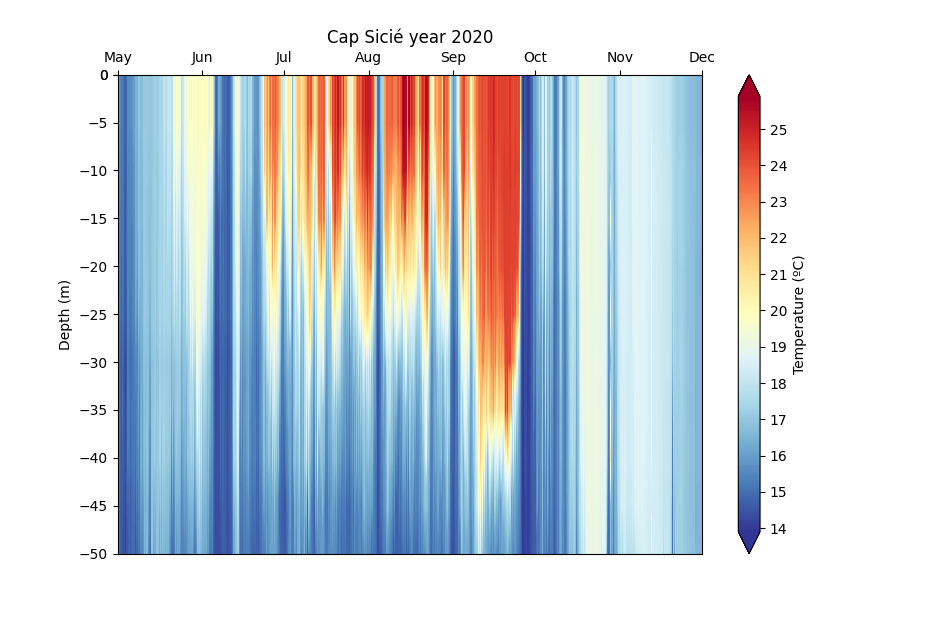
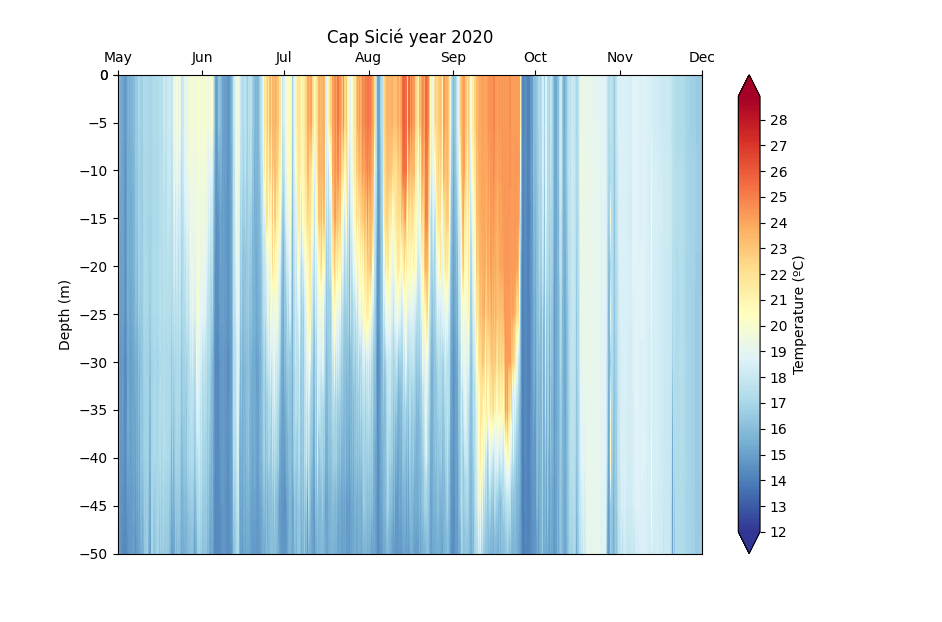
Added a way for or stratification to plot multiple plots if there is a gap in data in between the series. No matter how many gaps.

diff --git a/tmednetGUI/user_interaction.py b/tmednetGUI/user_interaction.py
@@ -715,27 +715,35 @@ class tmednet(tk.Frame):
             self.plot.invert_yaxis()
             # levels = np.arange(np.floor(np.nanmin(df.values)), np.ceil(np.nanmax(df.values)), 1)
             levels = np.arange(np.floor(hismintemp), np.ceil(hismaxtemp), 1)
+            levels2 = np.arange(np.floor(hismintemp), np.ceil(hismaxtemp), 0.1)
 
             # Draws a contourn line.
             # ct = self.plot.contour(df.index.to_pydatetime(), -depths, df.values.T, colors='black', linewidths=0.5)
             df_datetime = pd.to_datetime(df.index)
             old = df_datetime[0]
+            index_cut = None
+            df_cuts = []
             for i in df_datetime[1:]:
                 new = i
                 diff = new - old
                 old = new
                 if diff.days > 0:
+                    index_old = 0
                     index_cut = df_datetime.get_loc(i)
-                    df_first = df[:index_cut]
-                    df_second = df[index_cut:]
+                    df_cuts.append(df[index_old:index_cut])
+                    index_old = index_cut
+                    # df_second = df[index_cut:]
+
             if index_cut:
-                cf1 = self.plot.contourf(df_datetime[:index_cut], -depths, df_first.values.T, 256, extend='both',
-                                        cmap='RdYlBu_r')
-                cf2 = self.plot.contourf(df_datetime[index_cut:], -depths, df_second.values.T, 256, extend='both',
-                                        cmap='RdYlBu_r')
-                cb = plt.colorbar(cf1, ax=self.plot, label='Temperature (ºC)', ticks=levels)
+                df_cuts.append(df[index_cut:])
+                cf = []
+                for i in range(0, len(df_cuts)):
+
+                    cf.append(self.plot.contourf(pd.to_datetime(df_cuts[i].index), -depths, df_cuts[i].values.T, 256, extend='both',
+                                            cmap='RdYlBu_r', levels=levels2))
+                cb = plt.colorbar(cf[0], ax=self.plot, label='Temperature (ºC)', ticks=levels)
             else:
-                cf = self.plot.contourf(df_datetime, -depths, df.values.T, 256, extend='both', cmap='RdYlBu_r')
+                cf = self.plot.contourf(df_datetime, -depths, df.values.T, 256, extend='both', cmap='RdYlBu_r', levels=levels2)
 
                 cb = plt.colorbar(cf, ax=self.plot, label='Temperature (ºC)', ticks=levels)
             self.cbexists = True
